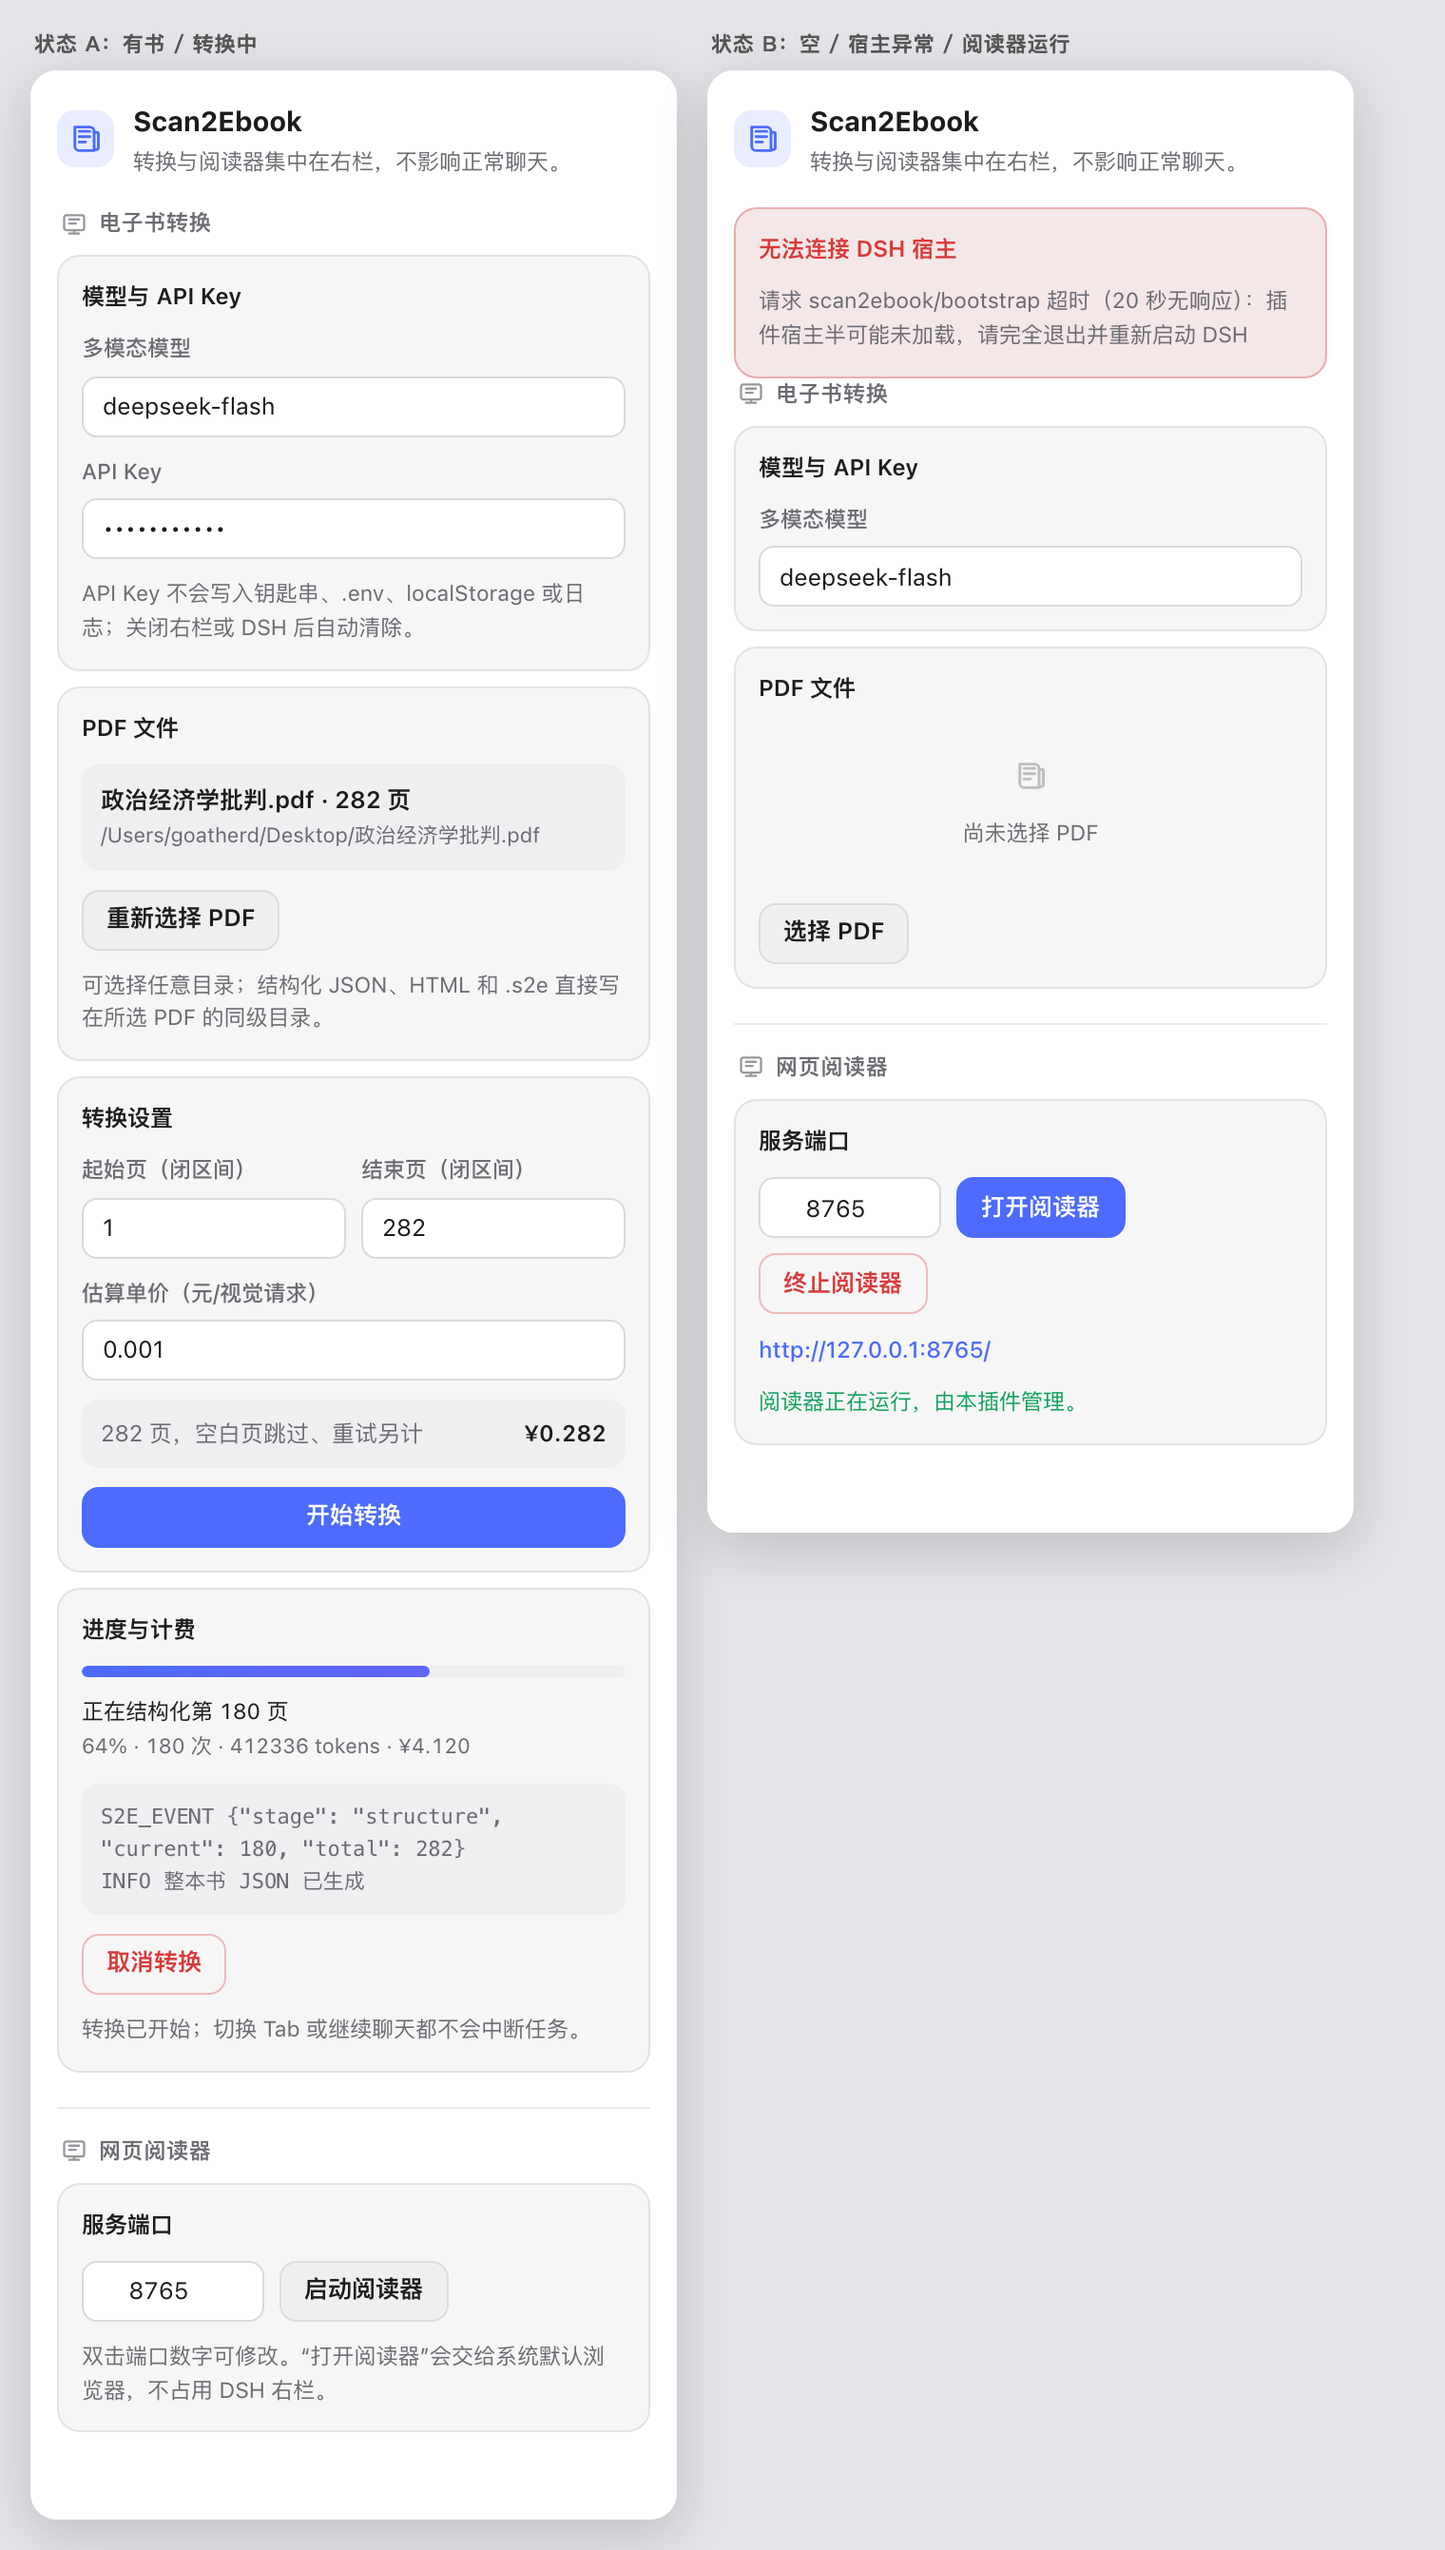
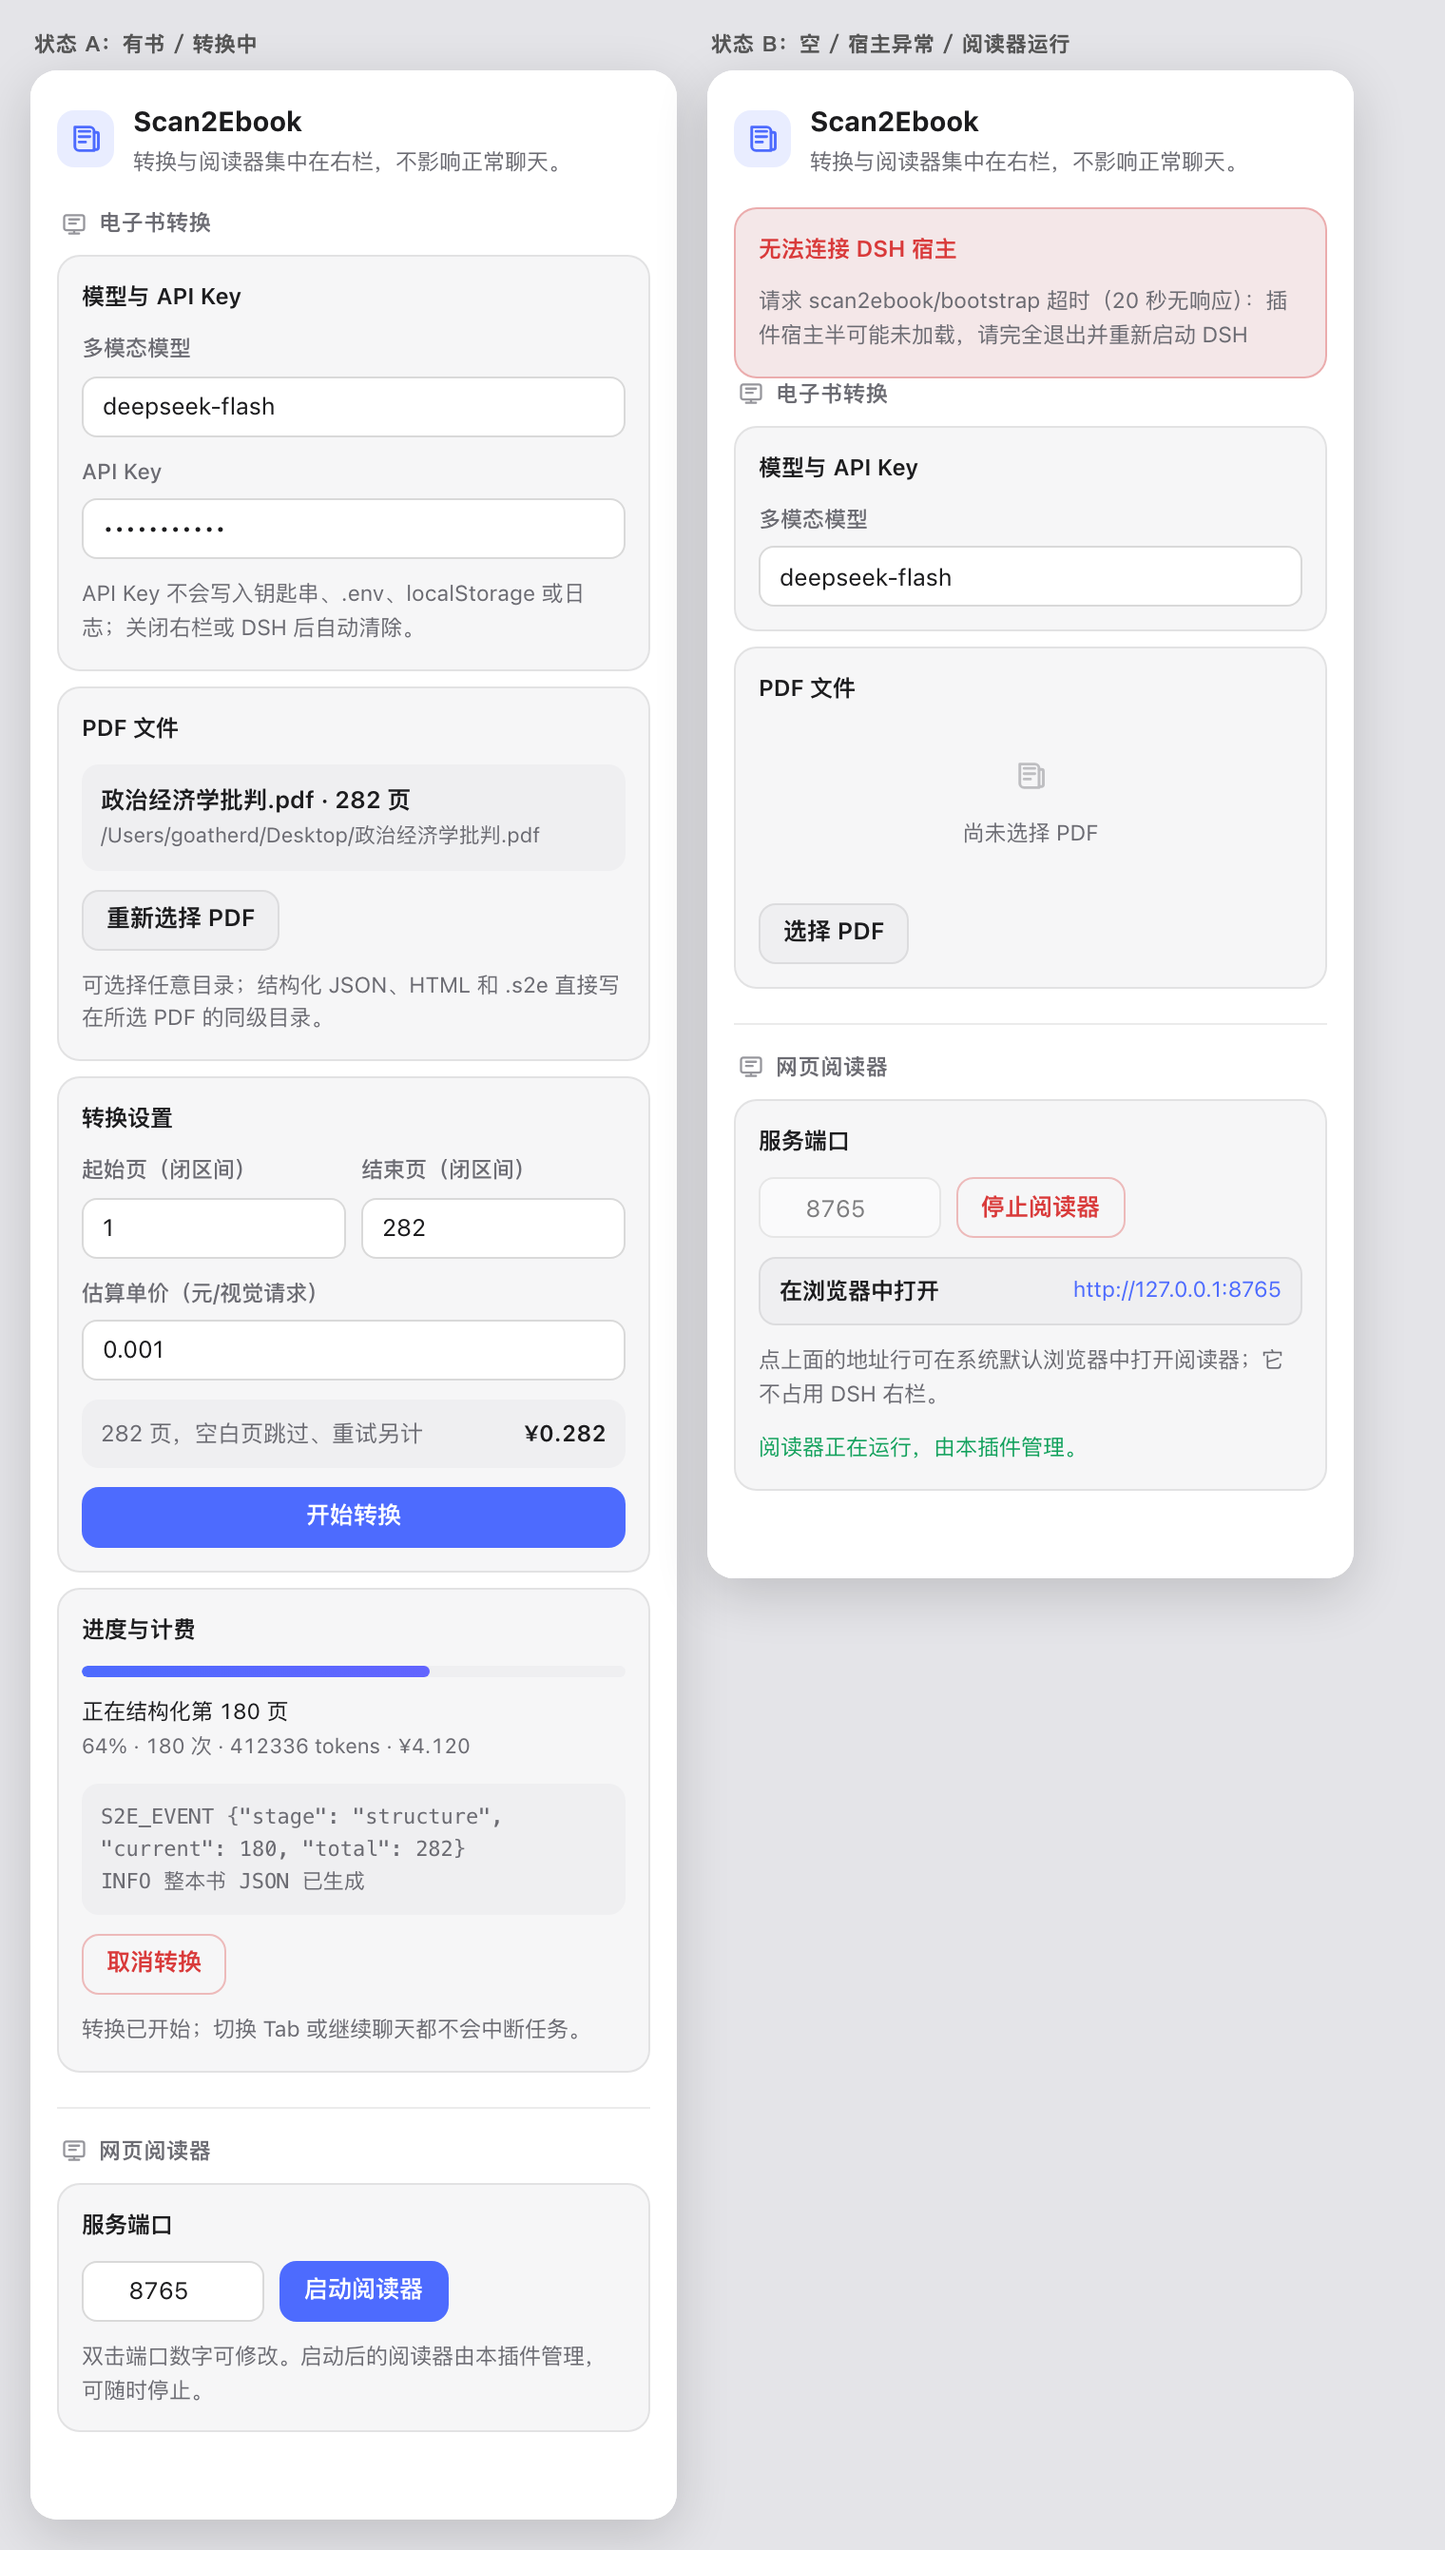
feat(dsh-plugin): 阅读器改为单一开关,地址行重做
- 启动/停止合并为一个按钮:未运行显示「启动阅读器」(主色),运行中显示「停止阅读器」(危险色),
  启动中/停止中显示进行态;外部独立实例时不提供停止(禁用并给出原因)
- 「打开阅读器」按钮移除,改为一条可点击的地址行:左侧「在浏览器中打开」+ 右侧地址(品牌色),
  整行 hover 反馈;用 .s2e-side button.s2e-reader-url 提高优先级,覆写宿主全局 button 样式(原来是方框链接)
- 运行中端口输入框禁用并置灰(避免改端口导致状态不一致)
- 预览图更新为新的运行态

diff --git a/dsh-plugin/dsh-client-ui-scan2ebook/lib/client.js b/dsh-plugin/dsh-client-ui-scan2ebook/lib/client.js
@@ -76,8 +76,11 @@ window.__ModuleLoader__.load({
         .s2e-error-card>h3{color:var(--dsw-alias-state-error-primary)}
         .s2e-reader-section{border-top:1px solid var(--dsw-alias-border-l1);padding-top:14px}
         .s2e-port{width:96px;text-align:center;font-variant-numeric:tabular-nums}
-        .s2e-reader-url{display:inline-flex;align-items:center;gap:6px;margin:0;padding:0;border:0;background:transparent;color:var(--dsw-alias-brand-primary);font:inherit;font-size:12px;font-weight:500;text-align:left;overflow-wrap:anywhere;cursor:pointer}
-        .s2e-reader-url:hover{text-decoration:underline}
+        .s2e-side button.s2e-reader-url{display:flex;align-items:center;justify-content:space-between;gap:10px;width:100%;margin:0;padding:8px 10px;border:1px solid var(--dsw-alias-border-l1)!important;border-radius:9px!important;background:var(--dsw-alias-bg-layer-2)!important;color:var(--dsw-alias-label-primary)!important;font:inherit;font-size:12px;text-align:left;cursor:pointer;transition:background .12s ease}
+        .s2e-side button.s2e-reader-url:hover{background:var(--dsw-alias-interactive-bg-hover)!important}
+        .s2e-reader-url-label{font-weight:550}
+        .s2e-reader-url-value{color:var(--dsw-alias-brand-primary);font-size:11.5px;overflow-wrap:anywhere;text-align:right}
+        .s2e-input:disabled{opacity:.55;cursor:default}
         @media(max-width:380px){.s2e-row{grid-template-columns:1fr}}
         @media(prefers-reduced-motion:reduce){.s2e-side *{transition:none!important}}
 
@@ -132,11 +135,45 @@ window.__ModuleLoader__.load({
       const portRef = useRef(null)
       const refresh = useCallback(async (value = port) => { setFailed(false); try { const next = await rpc('reader-status', { port: Number(value) }); setStatus(next); if (next.occupied) { setFeedback('该端口已被其他程序占用，不是 scan2ebook 阅读器。'); setFailed(true) } else setFeedback(next.running ? (next.managed ? '阅读器正在运行，由本插件管理。' : '检测到独立运行的 scan2ebook 阅读器；可以打开，但插件不会终止它。') : '阅读器未运行。') } catch (error) { setFeedback(error.message); setFailed(true) } }, [port])
       useEffect(() => { refresh() }, [])
-      const start = useCallback(async () => { setBusy(true); setFailed(false); setFeedback('正在启动阅读器…'); try { const next = await rpc('reader-start', { port: Number(port) }); setStatus(next); setFeedback('阅读器已启动。') } catch (error) { setFeedback(error.message); setFailed(true) } finally { setBusy(false) } }, [port])
+      // 单一开关：未运行时启动；运行中且由本插件管理时停止。
+      const toggle = useCallback(async () => {
+        if (busy) return
+        const running = !!status?.running
+        setBusy(true); setFailed(false)
+        try {
+          if (running && status?.managed) {
+            setFeedback('正在停止阅读器…')
+            const next = await rpc('reader-stop', { port: Number(port) })
+            setStatus(next); setFeedback('阅读器已停止。')
+          } else {
+            setFeedback('正在启动阅读器…')
+            const next = await rpc('reader-start', { port: Number(port) })
+            setStatus(next); setFeedback(next?.reused ? '该端口上已有阅读器在运行。' : '阅读器已启动。')
+          }
+        } catch (error) { setFeedback(error.message); setFailed(true) } finally { setBusy(false) }
+      }, [busy, status, port])
       const open = useCallback(async () => { setBusy(true); setFailed(false); try { await rpc('reader-open', { port: Number(port) }); setFeedback('已在系统默认浏览器中打开阅读器。') } catch (error) { setFeedback(error.message); setFailed(true) } finally { setBusy(false) } }, [port])
-      const stop = useCallback(async () => { setBusy(true); setFailed(false); setFeedback('正在终止阅读器…'); try { const next = await rpc('reader-stop', { port: Number(port) }); setStatus(next); setFeedback('阅读器已终止。') } catch (error) { setFeedback(error.message); setFailed(true) } finally { setBusy(false) } }, [port])
       const finishPortEdit = () => { setEditing(false); localStorage.setItem(PORT_KEY, String(port)); refresh(port) }
-      return h('div', { className: 's2e-section s2e-reader-section' }, h('div', { className: 's2e-section-title' }, h('span', { dangerouslySetInnerHTML: { __html: readerIcon } }), h('h3', null, '网页阅读器')), h('section', { className: 's2e-card' }, h('h3', null, '服务端口'), h('div', { className: 's2e-actions' }, h('input', { ref: portRef, className: 's2e-input s2e-port', type: 'number', min: 1024, max: 65535, readOnly: !editing, title: '双击修改端口', value: port, onDoubleClick: () => { setEditing(true); setTimeout(() => portRef.current?.select(), 0) }, onChange: (e) => setPort(e.target.value), onBlur: finishPortEdit, onKeyDown: (e) => { if (e.key === 'Enter') e.currentTarget.blur() } }), !status?.running && h('button', { className: 's2e-button s2e-primary', disabled: busy || status?.occupied, onClick: start }, busy ? '正在启动…' : '启动阅读器'), status?.running && h('button', { className: 's2e-button s2e-primary', disabled: busy, onClick: open }, busy ? '正在打开…' : '打开阅读器'), status?.running && status?.managed && h('button', { className: 's2e-button s2e-danger', disabled: busy, onClick: stop }, busy ? '正在终止…' : '终止阅读器')), status?.running && h('button', { className: 's2e-reader-url', disabled: busy, onClick: open }, status.url), h('p', { className: 's2e-hint' }, '双击端口数字可修改。“打开阅读器”会交给系统默认浏览器，不占用 DSH 右栏。')), h('p', { className: `s2e-hint ${failed ? 's2e-error' : status?.running ? 's2e-ok' : ''}` }, feedback))
+      const running = !!status?.running
+      const external = running && !status?.managed
+      const canToggle = !busy && !status?.occupied && !external
+      const toggleLabel = busy ? (running ? '正在停止…' : '正在启动…') : (running ? '停止阅读器' : '启动阅读器')
+      return h('div', { className: 's2e-section s2e-reader-section' },
+        h('div', { className: 's2e-section-title' }, h('span', { dangerouslySetInnerHTML: { __html: readerIcon } }), h('h3', null, '网页阅读器')),
+        h('section', { className: 's2e-card' }, h('h3', null, '服务端口'),
+          h('div', { className: 's2e-actions' },
+            h('input', { ref: portRef, className: 's2e-input s2e-port', type: 'number', min: 1024, max: 65535, readOnly: !editing, disabled: running, title: '双击修改端口', value: port, onDoubleClick: () => { if (running) return; setEditing(true); setTimeout(() => portRef.current?.select(), 0) }, onChange: (e) => setPort(e.target.value), onBlur: finishPortEdit, onKeyDown: (e) => { if (e.key === 'Enter') e.currentTarget.blur() } }),
+            h('button', { className: `s2e-button ${running ? 's2e-danger' : 's2e-primary'}`, disabled: !canToggle, title: external ? '该阅读器不是由本插件启动，不能在此停止' : '', onClick: toggle }, toggleLabel),
+          ),
+          running && h('button', { className: 's2e-reader-url', disabled: busy, onClick: open, title: '在系统默认浏览器中打开' },
+            h('span', { className: 's2e-reader-url-label' }, '在浏览器中打开'),
+            h('span', { className: 's2e-reader-url-value' }, status.url),
+          ),
+          h('p', { className: 's2e-hint' }, running
+            ? '点上面的地址行可在系统默认浏览器中打开阅读器；它不占用 DSH 右栏。'
+            : '双击端口数字可修改。启动后的阅读器由本插件管理，可随时停止。'),
+        ),
+        h('p', { className: `s2e-hint ${failed ? 's2e-error' : running ? 's2e-ok' : ''}` }, feedback))
     }
 
     /** 右栏 tab 正文：官方 sidebar.right.pane.tab 席位，props 由框架注入（含会话标准工具包）。 */
